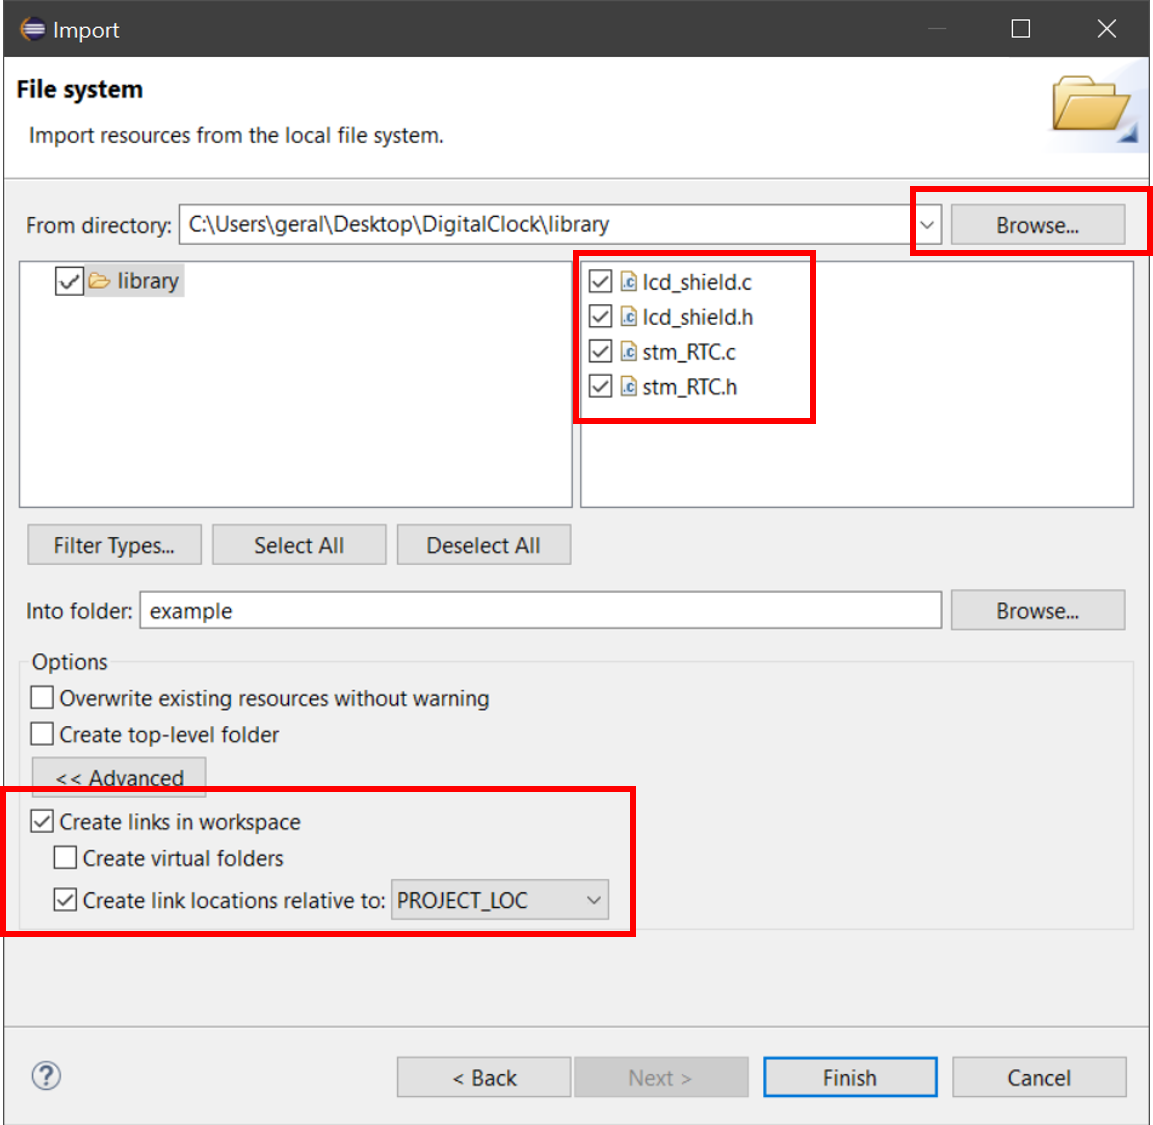
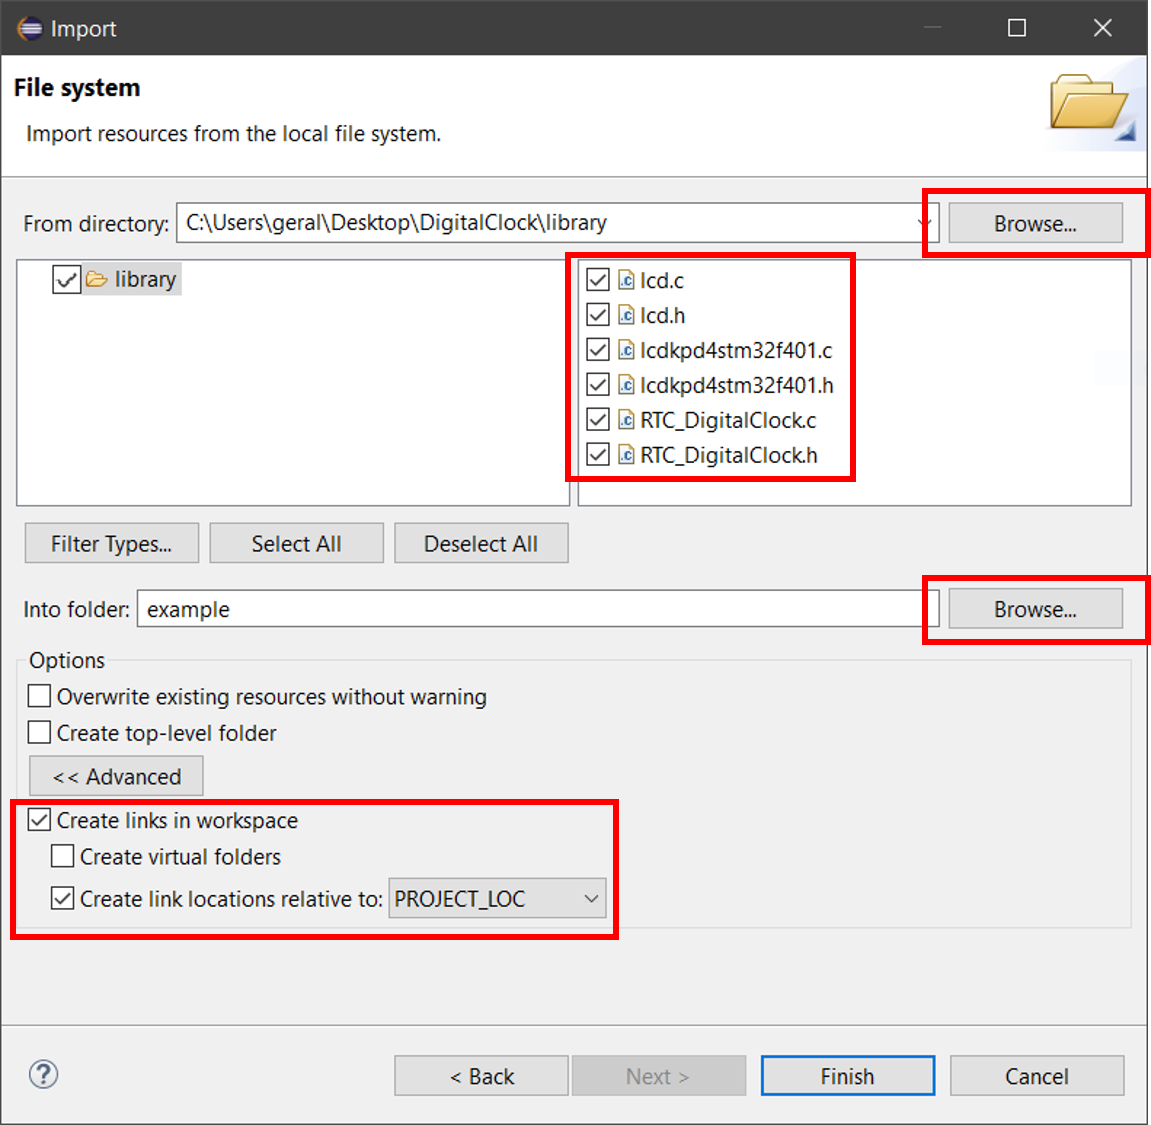
Files updated

Changed region(s): [[0.0, 0.0, 1.0, 1.0], [0.9123, 0.0, 1.0, 0.1244], [0.8818, 0.0311, 0.9123, 0.0622]]

diff --git a/library/RTC_DigitalClock.h b/library/RTC_DigitalClock.h
@@ -19,16 +19,12 @@
 #define SATURDAY_TEXT 	"SAT"
 #define SUNDAY_TEXT 	"DOM"
 
-const uint8_t dias_mes_365[] = {31,28,31,30,31,30,31,31,30,31,30,31};
-const uint8_t dias_mes_366[] = {31,29,31,30,31,30,31,31,30,31,30,31};
-
 volatile uint8_t RTC_KeepAlarm;
 
 void RTC_SetDateTime(uint8_t date, uint8_t month, uint16_t year, uint8_t weekday, uint8_t hour, uint8_t minute, uint8_t second);
 void RTC_SetAlarm(uint8_t hour, uint8_t minute, uint8_t second, uint8_t keep);
-void RTC_SetTimer(uint8_t hour, uint8_t minute, uint8_t second);
-void RTC_StartChrono();
-void RTC_StopChrono();
+void RTC_StartStopChrono();
+void RTC_UpdateChrono();
 void RTC_CorrectTime();
 
 #endif /* INC_INC_RTC_DIGITALCLOCK_H_ */

diff --git a/example_F103RB/Core/Src/main.c b/example_F103RB/Core/Src/main.c
@@ -39,7 +39,7 @@
 /* Private define ------------------------------------------------------------*/
 /* USER CODE BEGIN PD */
 /* USER CODE END PD */
-
+#define NUCLEO64_F1xx
 /* Private macro -------------------------------------------------------------*/
 /* USER CODE BEGIN PM */
 

diff --git a/library/lcd.h b/library/lcd.h
@@ -13,7 +13,6 @@
 #ifndef LCD_H_
 #define LCD_H_
 
-#include "stm32f1xx_hal.h"
 #include "string.h"
 #include "main.h"
 #include "stdio.h"
